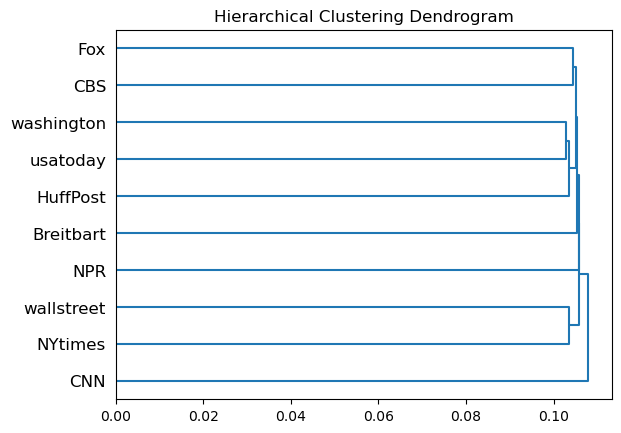
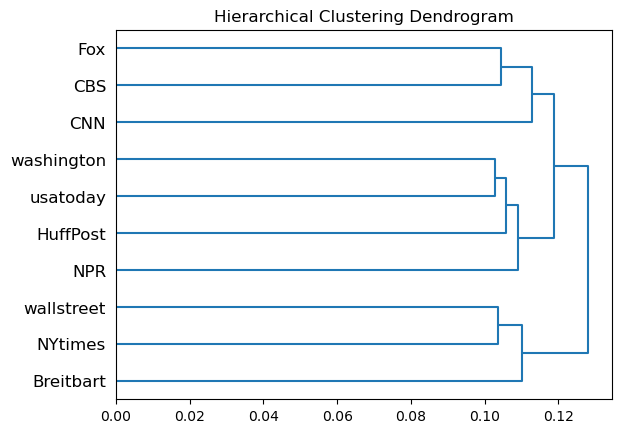
change the cluster

diff --git a/baseline.py b/baseline.py
@@ -8,7 +8,7 @@ import numpy as np
 from scipy.cluster.hierarchy import dendrogram
 from sklearn.cluster import KMeans
 from sklearn.metrics.pairwise import cosine_distances, cosine_similarity
-from sklearn.metrics import adjusted_rand_score
+from sklearn.metrics import adjusted_rand_score, davies_bouldin_score, calinski_harabasz_score
 import seaborn as sns
 import pandas as pd
 import joblib
@@ -90,7 +90,7 @@ def temp():
 def build_baseline(data_type, label_type):
     data_map = BaselineArticleMap() if data_type=='article' else TwitterMap()
     label_list = list(data_map.name_to_dataset.keys())
-
+    from sklearn.metrics import silhouette_score, silhouette_samples
     data = list()
     data_temp = dict()
     with open('./analysis/baseline/baseline_'+label_type+'_'+data_type+'.csv', mode='r', encoding='utf8') as fp:
@@ -103,8 +103,9 @@ def build_baseline(data_type, label_type):
             data.append(data_temp[k])
         except:
             print(k)
+
     analyzer = AgglomerativeClustering(
-        n_clusters=3, compute_distances=True, affinity='cosine', linkage='complete')
+        n_clusters=5, compute_distances=True, affinity='euclidean', linkage='ward')
     # analyzer = KMeans(n_clusters=3)
     cluster_result = dict()
     clusters = analyzer.fit(data)
@@ -113,7 +114,6 @@ def build_baseline(data_type, label_type):
         if label not in cluster_result:
             cluster_result[label] = list()
         cluster_result[label].append(label_list[i])
-
     if not os.path.exists('./log/baseline/model/'):
         os.makedirs('./log/baseline/model/')
     model_file = './log/baseline/model/baseline_'+label_type+'_'+data_type+'.c'
@@ -125,12 +125,12 @@ def build_baseline(data_type, label_type):
     plt.savefig(plt_file, bbox_inches='tight')
     plt.close()
 
-    # data = cosine_similarity(data)
-    # data = pd.DataFrame(data,columns=label_list,index=label_list)
-    # sns.heatmap(data)
-    # plt_file = './analysis/baseline/baseline_'+data_type+'_heat.png'
-    # plt.savefig(plt_file, bbox_inches='tight')
-    # plt.close()
+    data = cosine_similarity(data)
+    data = pd.DataFrame(data,columns=label_list,index=label_list)
+    sns.heatmap(data)
+    plt_file = './analysis/baseline/baseline_'+data_type+'_heat.png'
+    plt.savefig(plt_file, bbox_inches='tight')
+    plt.close()
 
 
 

diff --git a/program/analysis.py b/program/analysis.py
@@ -124,7 +124,7 @@ class ClusterAnalysis(BaseAnalysis):
         elif cluster_method == "AgglomerativeClustering":
             # self._analyser =  AgglomerativeClustering(n_clusters=2, compute_distances=True)
             self._analyser = AgglomerativeClustering(
-                n_clusters=5, compute_distances=True, affinity='cosine', linkage='complete')
+                n_clusters=5, compute_distances=True, affinity='euclidean', linkage='ward')
         elif cluster_method == "DBSCAN":
             self._analyser = DBSCAN(eps=0.5, min_samples=2)
         elif cluster_method == "OPTICS":
